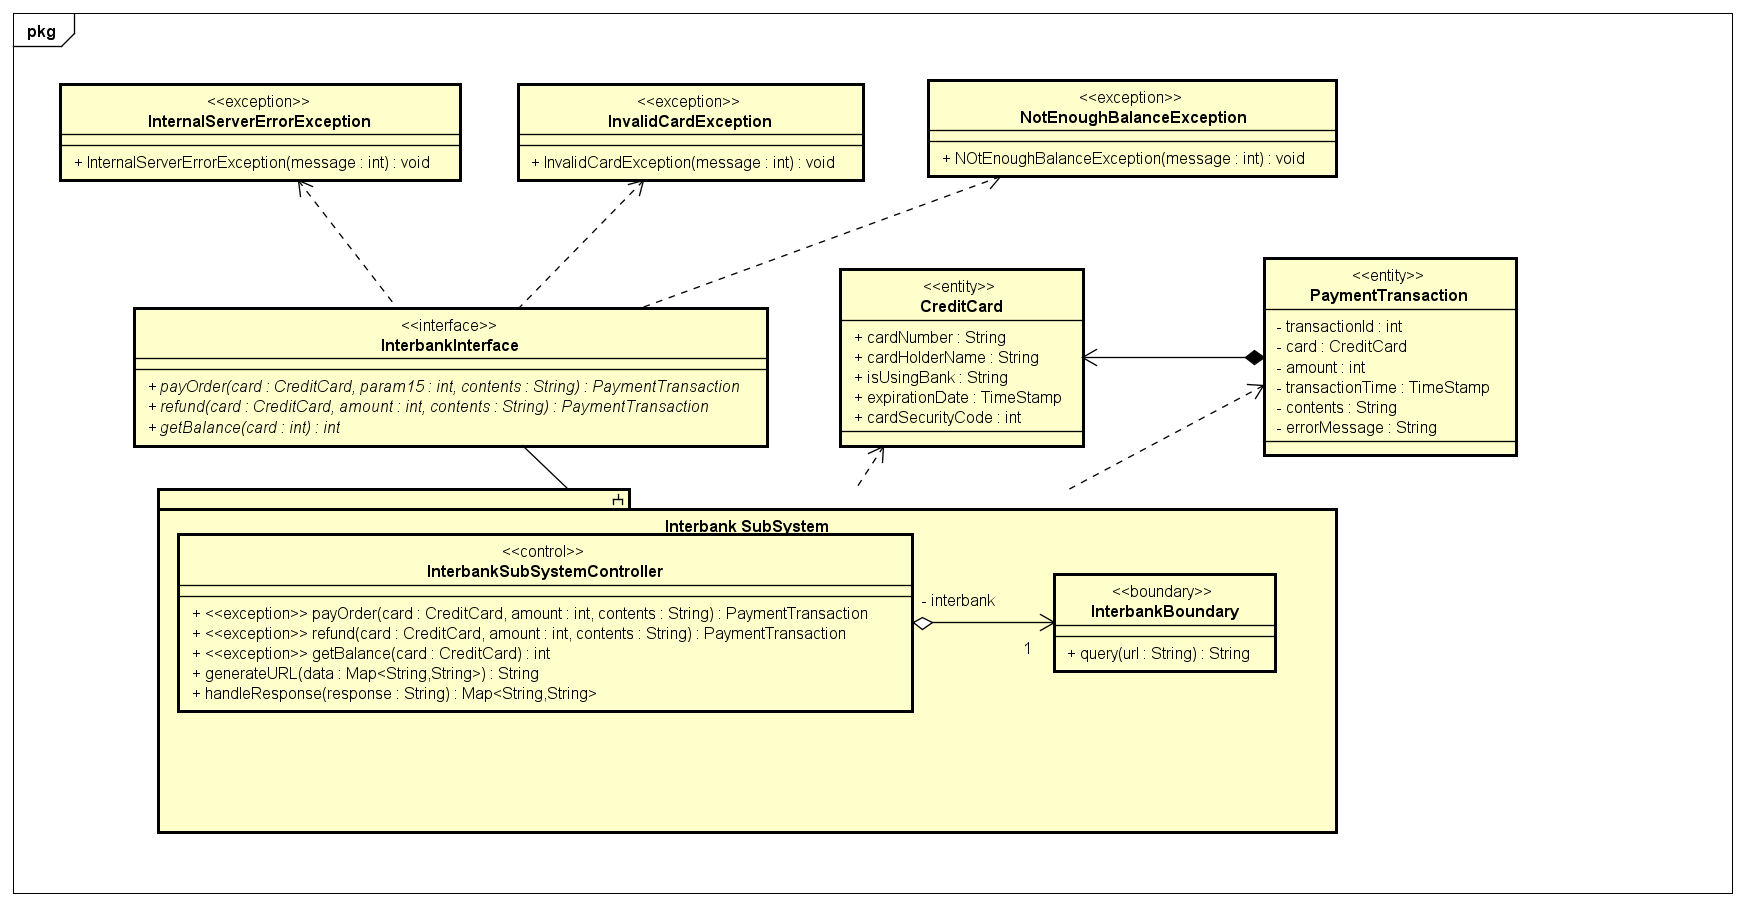
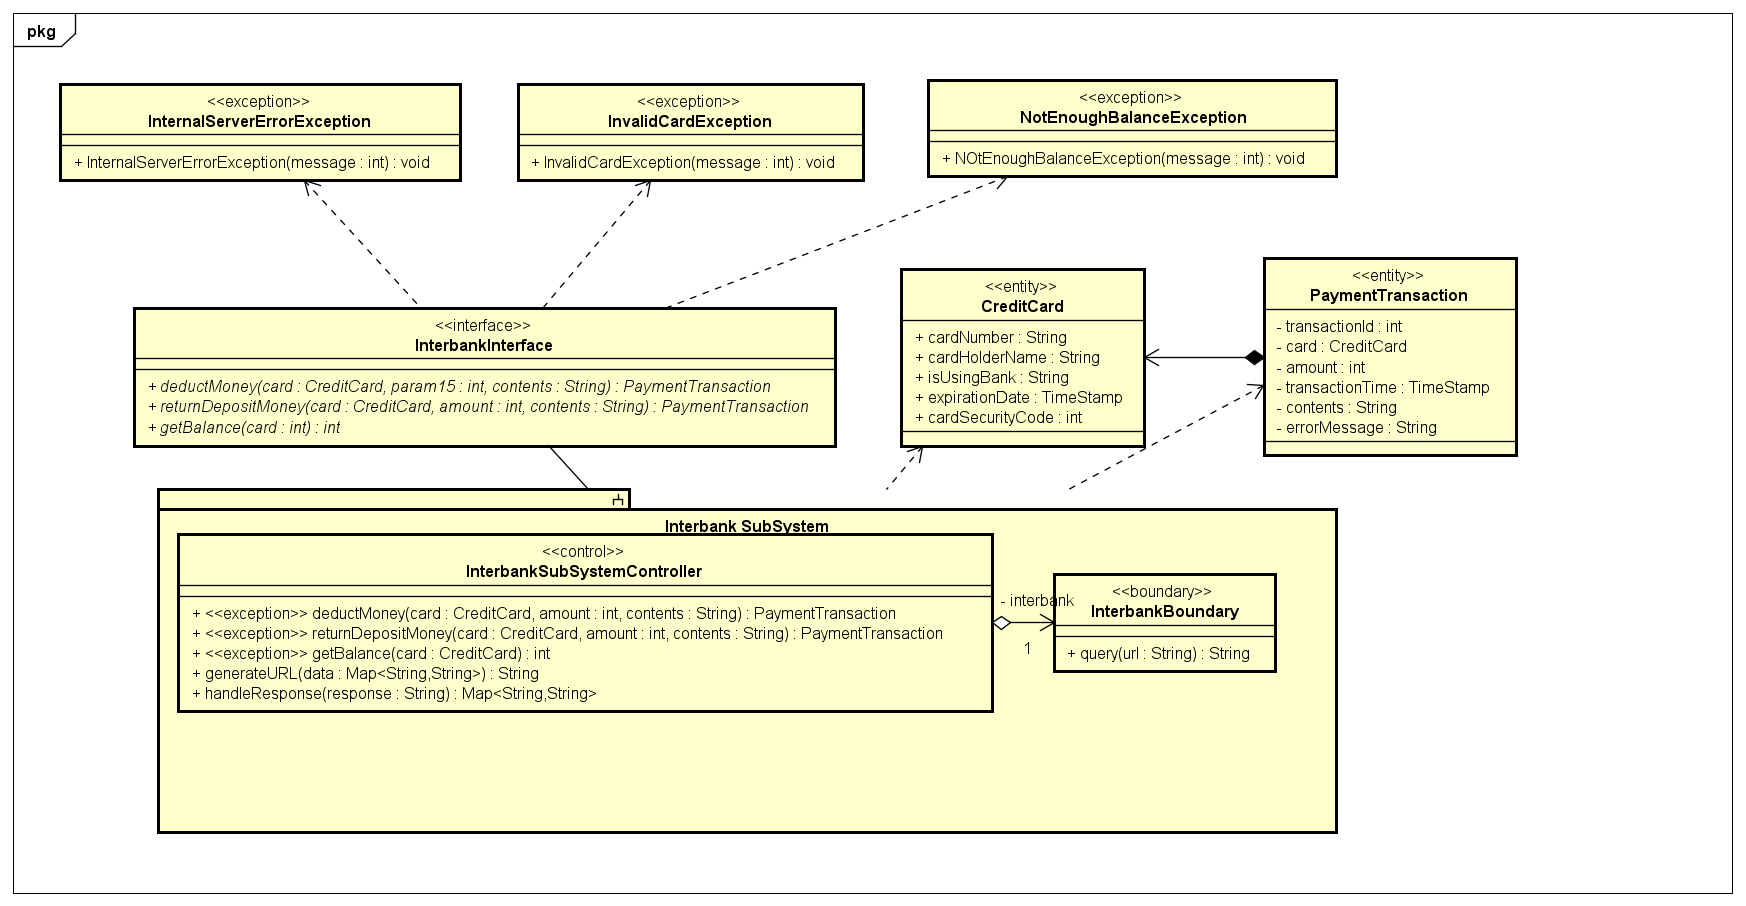
fix subsystem design

Changed region(s): [[0.0928, 0.2781, 0.6804, 0.5254], [0.1856, 0.5872, 0.6186, 0.7108], [0.5258, 0.7726, 0.5567, 0.8035]]

diff --git a/DetailDesign/README.md b/DetailDesign/README.md
@@ -1,0 +1,36 @@
+# Lab 05 - Use case Specification
+## Tasks
+In this lab, our team is asked to:
+- Complete use case specifications for the following use cases. Each member
+needs to be responsible for at least one of the three above lines.
+    + View Bike in Station and/or View Bike Information
+    + Rent Bike
+o Return Bike
+- Complete the Software Requirement Specification (SRS) following the given template
+## Contributions
+- **Vu Trung Dung**
+    + Write Use Case Specification and Activity Diagram of Use Case:
+        + Return Bike
+        + Return Deposit Money (Inclusion of return bike)
+    + Refactor files, Review work and write readme
+    + Complete the Software Requirement Specification (SRS):
+        +  2.Overall Description
+- **Nguyen Xuan Hoang**
+    + Write Use Case Specification and Activity Diagram of Use Case:
+        + Rent Bike
+        + Choose Payment Method (Inclusion of Rent bike)
+    + Complete the Software Requirement Specification (SRS):
+        + 3.Detailed Requirements 
+- **Nguyen Trung Nghia**
+    + Write Use Case Specification and Activity Diagram of Use Case:
+        + View Bike in Station
+        + Deduct Money (Inclusion of Rent bike)
+    + Complete the Software Requirement Specification (SRS):
+        + 4.Supplementary specification 
+- **Nguyen Ngoc Quy**
+    + Write Use Case Specification and Activity Diagram of Use Case:
+        + View Bike Information
+    + Complete the Software Requirement Specification (SRS):
+        + 1.Introduction
+## Revisions
+- In this lab, everyone will review each member's tasks and discussing with the team about the other one's task.
